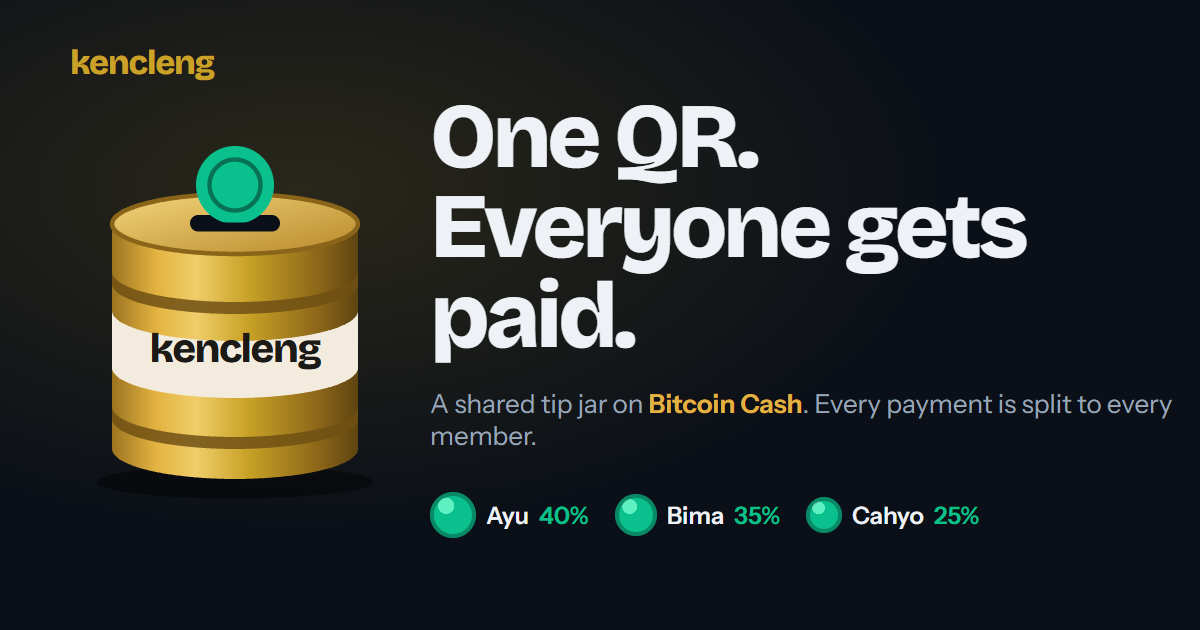
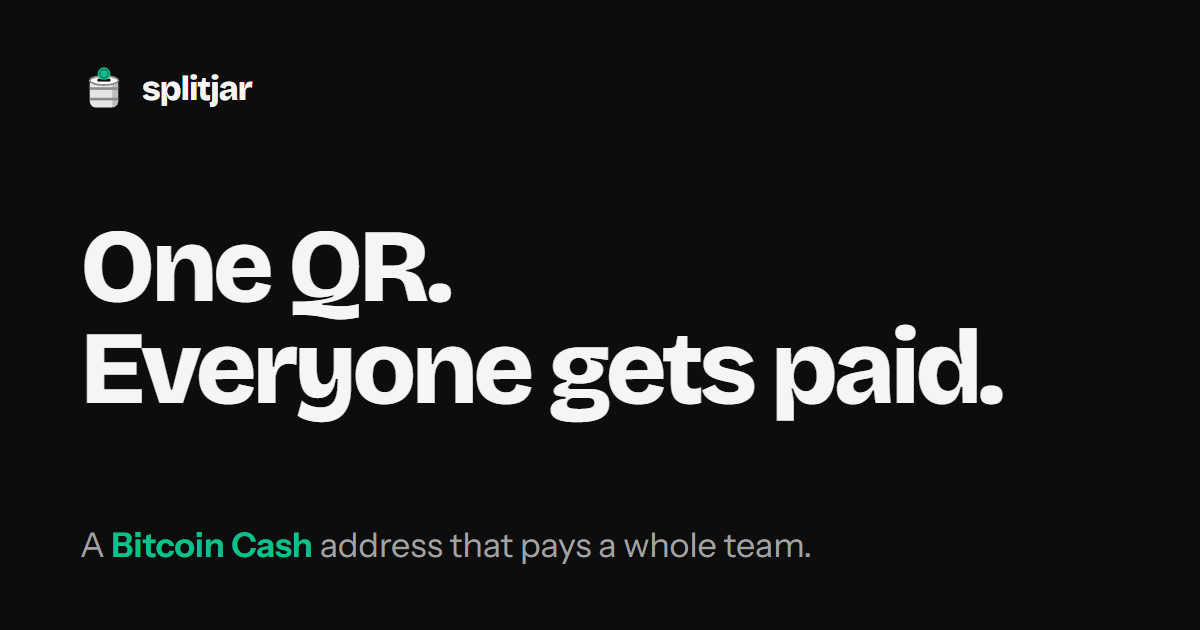
Judge README for Splitjar; neutral share image; wrap buttons at 360 px; fresh screenshots

diff --git a/scripts/og.html b/scripts/og.html
@@ -1,5 +1,5 @@
 <!doctype html>
-<!-- Source of public/og.png (1200x630). Rendered with scripts/og.py through the shared Chrome. -->
+<!-- Source of public/og.png (1200x630). Rendered with scripts/og.py through a shared Chrome. Neutral placeholder palette. -->
 <html>
 <head>
 <meta charset="utf-8" />
@@ -7,47 +7,17 @@
   @font-face { font-family: 'Bricolage'; src: url('../node_modules/@fontsource-variable/bricolage-grotesque/files/bricolage-grotesque-latin-wght-normal.woff2') format('woff2'); font-weight: 200 800; }
   @font-face { font-family: 'Instrument'; src: url('../node_modules/@fontsource-variable/instrument-sans/files/instrument-sans-latin-wght-normal.woff2') format('woff2'); font-weight: 400 700; }
   html, body { margin: 0; }
-  body { width: 1200px; height: 630px; background: radial-gradient(90% 90% at 25% 30%, rgba(201,162,39,.16), transparent 60%), #0b1018; color: #eef2f6; font-family: 'Instrument', sans-serif; display: grid; grid-template-columns: 430px 1fr; align-items: center; overflow: hidden; }
-  .tin { padding-left: 70px; }
-  .tin svg { width: 330px; height: auto; display: block; }
-  h1 { font-family: 'Bricolage', sans-serif; font-weight: 800; font-size: 92px; line-height: .98; letter-spacing: -0.045em; margin: 0; }
-  .sub { margin-top: 26px; font-size: 26px; color: #9aa6b8; }
-  .sub b { color: #e3b341; font-weight: 650; }
-  .coins { display: flex; gap: 26px; margin-top: 40px; align-items: center; }
-  .coin { display: flex; align-items: center; gap: 10px; font-size: 24px; font-weight: 600; }
-  .coin i { display: block; border-radius: 50%; background: radial-gradient(circle at 35% 30%, #5ff0c2 0 18%, #0ac18e 19% 100%); box-shadow: inset 0 0 0 4px rgba(6,35,26,.35); }
-  .coin span { color: #0ac18e; }
-  .word { position: absolute; left: 70px; top: 42px; font-family: 'Bricolage'; font-weight: 800; font-size: 34px; letter-spacing: -0.035em; color: #c9a227; }
+  body { width: 1200px; height: 630px; background: #0d0d0d; color: #f5f5f5; font-family: 'Instrument', sans-serif; box-sizing: border-box; padding: 64px 80px; display: grid; grid-template-rows: auto 1fr auto; overflow: hidden; }
+  .top { display: flex; align-items: center; gap: 14px; font-family: 'Bricolage'; font-weight: 800; font-size: 34px; letter-spacing: -0.035em; }
+  .top img { width: 48px; height: 48px; }
+  h1 { font-family: 'Bricolage', sans-serif; font-weight: 800; font-size: 104px; line-height: .98; letter-spacing: -0.045em; margin: 0; align-self: center; }
+  .sub { font-size: 34px; color: #a3a3a3; margin: 0; }
+  .sub b { color: #0ac18e; font-weight: 650; }
 </style>
 </head>
 <body>
-  <div class="word">splitjar</div>
-  <div class="tin">
-    <svg viewBox="0 0 220 250">
-      <defs>
-        <linearGradient id="m" x1="0" x2="1"><stop offset="0" stop-color="#9c7420"/><stop offset=".18" stop-color="#e3b341"/><stop offset=".34" stop-color="#f0cd6a"/><stop offset=".55" stop-color="#c9a227"/><stop offset=".85" stop-color="#8a6418"/><stop offset="1" stop-color="#5e4410"/></linearGradient>
-        <linearGradient id="l" x1="0" x2="1" y1="0" y2="1"><stop offset="0" stop-color="#f4d47a"/><stop offset="1" stop-color="#b8892b"/></linearGradient>
-        <clipPath id="c"><rect width="220" height="63"/></clipPath>
-      </defs>
-      <ellipse cx="110" cy="236" rx="92" ry="11" fill="#000" opacity=".45"/>
-      <path d="M28 64V214A82 20 0 0 0 192 214V64Z" fill="url(#m)"/>
-      <path d="M28 96A82 20 0 0 0 192 96V104A82 20 0 0 1 28 104Z" fill="#6f5013" opacity=".85"/>
-      <path d="M28 186A82 20 0 0 0 192 186V194A82 20 0 0 1 28 194Z" fill="#6f5013" opacity=".85"/>
-      <path d="M28 122A82 20 0 0 0 192 122V160A82 20 0 0 1 28 160Z" fill="#f3ebdd"/>
-      <text x="110" y="156" text-anchor="middle" style="font-family:Bricolage;font-weight:800;font-size:27px;letter-spacing:-1px" fill="#1b1a17">splitjar</text>
-      <ellipse cx="110" cy="64" rx="82" ry="20" fill="url(#l)" stroke="#8a6418" stroke-width="3"/>
-      <rect x="80" y="58" width="60" height="11" rx="5.5" fill="#0b1018"/>
-      <g clip-path="url(#c)"><circle cx="110" cy="38" r="26" fill="#0ac18e"/><circle cx="110" cy="38" r="17" fill="none" stroke="#06231a" stroke-width="3" opacity=".5"/></g>
-    </svg>
-  </div>
-  <div>
-    <h1>One QR.<br/>Everyone gets paid.</h1>
-    <p class="sub">A <b>Bitcoin Cash</b> address that pays a whole team.</p>
-    <div class="coins">
-      <div class="coin"><i style="width:46px;height:46px"></i>Ayu <span>40%</span></div>
-      <div class="coin"><i style="width:42px;height:42px"></i>Bima <span>35%</span></div>
-      <div class="coin"><i style="width:36px;height:36px"></i>Cahyo <span>25%</span></div>
-    </div>
-  </div>
+  <div class="top"><img src="../public/favicon.svg" alt="" />splitjar</div>
+  <h1>One QR.<br/>Everyone gets paid.</h1>
+  <p class="sub">A <b>Bitcoin Cash</b> address that pays a whole team.</p>
 </body>
 </html>

diff --git a/src/styles/base.css b/src/styles/base.css
@@ -213,3 +213,12 @@ select {
     scroll-behavior: auto !important;
   }
 }
+
+@media (max-width: 480px) {
+  .btn {
+    white-space: normal;
+    text-align: center;
+    line-height: 1.25;
+    padding-block: var(--s-2);
+  }
+}

diff --git a/src/styles/app.css b/src/styles/app.css
@@ -708,6 +708,7 @@
 }
 
 .refusal-msg {
+  overflow-wrap: anywhere;
   font-size: 0.8rem;
   white-space: pre-wrap;
   max-height: 200px;

diff --git a/README.md b/README.md
@@ -1,116 +1,141 @@
 <div align="center">
 
-<img src="public/icon-192.png" width="96" alt="Splitjar: a brass tip tin with a green coin going into the slot">
+<img src="public/icon-192.png" width="88" alt="Splitjar logo: a jar with a green coin going into the slot">
 
 # Splitjar
 
-**One QR. Everyone gets paid.**
+**A Bitcoin Cash address that pays a whole team.**
 
-![tests](https://img.shields.io/badge/tests-26%20passing-2ea44f) ![license](https://img.shields.io/badge/license-MIT-blue) ![network](https://img.shields.io/badge/Bitcoin%20Cash-mainnet%20%2B%20chipnet-0AC18E) ![owner keys](https://img.shields.io/badge/owner%20keys-0-2ea44f)
+One QR. Everyone gets paid.
 
-**[Open the app](https://splitjar.vercel.app)** · **[Play-money jar, no wallet needed](https://splitjar.vercel.app/try)** · **Slides (Widget Factory): _TODO link_** · **Video: _TODO link_**
+[![ci](https://github.com/Stylenexy/splitjar/actions/workflows/ci.yml/badge.svg)](https://github.com/Stylenexy/splitjar/actions/workflows/ci.yml) ![tests](https://img.shields.io/badge/tests-35%20passing-2ea44f) ![license](https://img.shields.io/badge/license-MIT-blue) ![owner keys](https://img.shields.io/badge/owner%20keys-0-2ea44f) [![Pay this team on BCH](public/badge.svg)](#embed-and-badge)
+
+**Live app: _TODO final URL_** · **[Play-money jar, no wallet needed](#try-it-in-60-seconds)** · **Slides (Widget Factory): _TODO_** · **Video: _TODO_**
 
 </div>
 
-Splitjar is a shared tip jar on Bitcoin Cash. A street band, a warung crew or a group of co-hosts gets one QR code. Every payment to it is split to each member's wallet within seconds, in shares written into a CashScript covenant. Nobody holds the money, so nobody has to be trusted with it.
+Splitjar turns one Bitcoin Cash QR into a whole team: pay once, and a CashScript covenant pays every member their share within seconds. No treasurer, and no way to change the cut. A member can itself be another team's Splitjar, so one payment can flow down a revenue waterfall (organiser, band, crew) in consecutive transactions.
 
-*Splitjar* is the Indonesian tip tin with a slot in the lid that goes around after a street performance. Afterwards one person always ends up holding it and paying the others back. Splitjar moves that job into the contract.
+Built for **BCH BLAZE 2026, Mainnet Track**, November 2026. The contract has not been audited: use small amounts.
 
-Built for **BCH BLAZE 2026, Mainnet Track**, November 2026. Contract not audited: use small amounts.
-
-<img src="docs/shots/home-1440.png" width="100%" alt="Splitjar home page: the headline One QR. Everyone gets paid, a brass tip tin, three member coins after a split and the printed receipt of the split transaction">
+<img src="docs/shots/home-1440.png" width="100%" alt="Splitjar home page: headline One QR. Everyone gets paid, and a live split tree where one payment reaches seven wallets over two levels">
 
 ## Try it in 60 seconds
 
-1. **No wallet, no money:** open **[/try](https://splitjar.vercel.app/try)** and press *Drop 0.001 BCH into the tin*. The page runs the real contract against an in-memory network: the split transaction is built by CashScript and checked by the Bitcoin Cash VM (libauth) in your tab. Three member cards light up with their amounts.
-2. **Cheat it:** on the same page press *Pay 0.001 BCH and let the thief try first*. Before the honest split, the page broadcasts a transaction that sends the whole payment to the first member. The VM refuses it; the page shows the raw error and the contract line that caught it (`Splitjar.cash` line 32, *one output per member, no extra outputs*). Then the honest split goes through.
-3. **Real mainnet:** open the demo jar (_TODO: mainnet demo jar link, set once Dex's member addresses are in_) or make your own at **[/new](https://splitjar.vercel.app/new)** with two to four addresses you control. Scan the QR with any Bitcoin Cash wallet, or press **Pay with WizardConnect** and approve in your wallet. Keep the page open: within a couple of seconds the split goes out and each card links to the transaction on the explorer.
-
-<img src="docs/shots/cheat-1440.png" width="100%" alt="The cheat scene: a transaction paying everything to Ayu, and a paper stamp REFUSED with the VM error and the contract rule that caught it">
+1. **No wallet, no money.** Open the app's `/try` page and press *Pay 0.001 BCH into the jar*. The page runs the real contract against an in-memory network: each split transaction is built by CashScript and accepted by the Bitcoin Cash VM (libauth) in your tab. The sample band jar pays three players and the road crew's own jar, which splits again: **one payment, two levels, seven wallets, two transactions.**
+2. **Cheat it.** Press *Pay 0.001 BCH and let the thief try first*. Before the honest split, the page broadcasts a transaction that sends the whole payment to the first member. The VM refuses it. The page shows the raw refusal and the contract line that caught it (`Splitjar.cash` line 32, *one output per member, no extra outputs*). Then the honest split goes through. On mainnet the same button sends the cheat to a real node.
+3. **Real mainnet.** Make a jar at `/new` with **Test with two of my own addresses** (the money comes back to you), or pay into the demo jar (_TODO: mainnet demo jar link once its addresses are set_). Scan the QR with any Bitcoin Cash wallet, or press **Pay with WizardConnect** and approve in your wallet. Within a couple of seconds the split goes out; each line of the tree links to its transaction on the explorer. Close the tab and pay from your phone: the keeper still sends the split.
 
 ## For judges: how each Mainnet Track requirement is met
 
 | Requirement | How Splitjar meets it | Where to check |
 |---|---|---|
-| Anyone can make a useful BCH mainnet transaction with the app | Pay into a jar from any wallet (BIP21 QR) or through WizardConnect; the app then broadcasts the split, a second mainnet transaction with one output per member | [`PayPanel.tsx`](src/components/PayPanel.tsx), [`engine.ts`](src/lib/engine.ts). Example mainnet jar and transactions: **TODO** (added after the first funded run) |
-| WizardConnect integration | `@wizardconnect/react` 0.2.6 pairs a wallet over the relay; the app derives the wallet's addresses from the shared xpubs, finds its coins, builds the payment with CashScript and asks the wallet to sign it (`inputPaths`) | [`wallet.ts`](src/lib/wallet.ts), [`PayPanel.tsx`](src/components/PayPanel.tsx) |
-| Live demo a judge can open with one link | Static site, no account, no backend | https://splitjar.vercel.app |
-| Banner on top of the home page: slides, repo, EMBER2026 address | Paper strip above the navigation, filled from one config file | [`Chrome.tsx`](src/components/Chrome.tsx) `Banner`, values in [`site.ts`](src/site.ts) (**slides link and EMBER2026 address: TODO**) |
+| Anyone can make a useful BCH mainnet transaction with the app | Pay into a jar from any wallet (BIP21 QR) or through WizardConnect; the app then broadcasts the split, a second mainnet transaction with one output per member, and one more per nested jar | [`PayPanel.tsx`](src/components/PayPanel.tsx), [`engine.ts`](src/lib/engine.ts). Mainnet transaction ids: **TODO** (added after the first funded run) |
+| WizardConnect integration | `@wizardconnect/react` 0.2.6 pairs a wallet over the relay; the app derives the wallet's addresses from the shared xpubs, finds its coins, builds the payment with CashScript and asks the wallet to sign it with `inputPaths` | [`wallet.ts`](src/lib/wallet.ts), [`PayPanel.tsx`](src/components/PayPanel.tsx). Wallets tested: **TODO** (Selene, Paytaca, Cashonize) |
+| Live demo a judge can open with one link | Static site, no account, no backend | **TODO final URL** |
+| Banner on top of the home page: slides, repo, EMBER2026 address | Strip above the navigation, filled from one config file | [`Chrome.tsx`](src/components/Chrome.tsx) `Banner`, values in [`site.ts`](src/site.ts) (**slides link and EMBER2026 address: TODO**) |
 | Original work | Written from scratch during the hackathon; first commit 17 November 2026 (`git log --reverse`). Prior concept work is listed under [Credits](#credits--prior-work) | git history |
 
 ## How it maps to the judging criteria
 
 | Criterion | What Splitjar does |
 |---|---|
-| **Innovation (is it cool?)** | A tip jar that cannot be cheated, for groups that earn together in cash today. One QR on a guitar case is the whole interface for the payer. The page lets you attack it and shows the network refusing. |
-| **Design (is it slick?)** | The payer does what they already know: scan, pay. The group sets up in one form with no account. The tin on screen reacts to real events: a coin drops in when a payment lands, one coin per member flies out when the split is accepted. Mobile first, tested at 360 px. |
-| **Technical (does it work?)** | Covenant with native introspection: outputs, amounts, output count and token fields are all fixed by the contract; no owner key, no signature. 26 tests on a mock network that runs the real VM. The split is deterministic, so any number of devices can race to send it and they all send the same transaction. |
-| **Business (will it make money?)** | See [Business model](#business-model-and-roadmap): an optional organiser share for events and paid printed QR kits, both without custody. |
+| **Innovation** | An address that is a whole team. Nested jars make a revenue waterfall out of plain payments: a festival pays a band, the band pays its crew, all from one scan. The page invites you to attack it and shows the network refusing. |
+| **Design and usability** | The payer only scans and pays. The team sets up in one form, no account; nesting is pasting another jar's link as a member. The split tree lights up level by level with the amount and a link per transaction. Tested at 360 px. (The visual design is a neutral placeholder while the final direction is chosen.) |
+| **Technical strength** | Covenant with native introspection: output count, recipients, exact amounts and token fields are all fixed by the contract; no owner key, no signature. Nested jars need no contract change: a jar's address is a P2SH32 locking bytecode like any other recipient. Splits are deterministic, so any device (or the keeper) can send them and all send the same transaction. 35 tests, all transactions checked by the BCH VM. |
+| **Business potential** | See [Business model](#business-model-and-roadmap): an optional organiser share in event jars, printed QR kits, and a one-line embed for podcasts, restaurants and team fundraisers. |
 
 ## How it works
 
 ```mermaid
 flowchart LR
-  P[Payer's wallet] -- 1. pays the QR --> J[(Jar address<br/>Splitjar covenant)]
-  J -- 2. a page with the jar open sees the coin --> D{distribute}
-  D -- 3. one transaction --> A[Ayu 40%]
-  D --> B[Bima 35%]
-  D --> C[Cahyo 25%]
+  P[Payer's wallet] -- 1. pays the QR --> J[(Band jar<br/>Splitjar covenant)]
+  J -- 2. split --> A[Ayu 30%]
+  J --> B[Bima 25%]
+  J --> C[Cahyo 20%]
+  J --> R[(Road crew jar<br/>25%)]
+  R -- 3. split again --> D[Dewi 40%]
+  R --> E[Eko 25%]
+  R --> F[Fajar 20%]
+  R --> G[Gita 15%]
 ```
 
-1. **The group writes down who gets what.** Names, payout addresses and shares (2 to 4 members, shares add up to 100%). That list is encoded in the page link after the `#`, so it never reaches a server. The browser compiles nothing; it instantiates the precompiled contract with these values and gets a P2SH32 address.
-2. **Someone pays the QR.** The QR is a BIP21 `bitcoincash:` URI with the amount. WizardConnect is offered for wallets that support it.
-3. **The jar splits it.** The page polls the jar address every 1.5 s through an Electrum server. When a coin arrives it builds `distribute()`: one input (the payment), one output per member, amounts computed exactly like the contract computes them. The 1,000-sat fee comes out of the payment, so the page needs no wallet to send it.
+1. **The team writes down who gets what.** Names, payout addresses and shares (2 to 4 members, adding up to 100%). A member can be another jar: paste that jar's link instead of an address. The list is encoded in the page link after the `#`, so it never reaches a server. The browser instantiates the precompiled contract with these values and gets a P2SH32 address.
+2. **Someone pays the QR**, a BIP21 `bitcoincash:` URI, from any wallet, or through WizardConnect.
+3. **The split goes out.** A page with the jar open polls the jar addresses every 1.5 s through an Electrum server. When a coin arrives it builds `distribute()`: one input (the payment), one output per member, amounts computed exactly as the contract computes them. If a member is a jar, the page immediately splits that jar too, spending the output it just created. Each split's 1,000-sat fee comes out of the money it splits, so nobody needs a wallet to send it.
+4. **No page open?** `splitjar-keeper` does step 3 from a terminal or a schedule ([Keeper](#keeper-members-get-paid-with-the-tab-closed)).
 
-Two transactions, payment then split. The contract does not split on arrival (Bitcoin Cash has no such hook); it makes the split the only way the coin can ever move.
+The contract does not split on arrival (Bitcoin Cash has no such hook); it makes the split the only way the coin can ever move.
 
 ## The contract
 
-[`contracts/Splitjar.cash`](contracts/Splitjar.cash), 89 lines, CashScript 0.14.0, compiled to 158 opcodes.
+[`contracts/Splitjar.cash`](contracts/Splitjar.cash), 89 lines, CashScript 0.14.0, 158 opcodes.
 
-- Constructor (line 9): four locking bytecodes, shares of the first three members in basis points, member count, fee. The last member gets the remainder, so the shares always cover the whole pot.
-- `distribute()` (line 27): exactly one input and `members` outputs (lines 31-32); `pot = input - fee` (line 34); each output must pay the right member exactly `floor(pot * bps / 10000)` (lines 36-73), with at least 1,000 sats and no tokens. Integer division floors, and the last member takes what is left, so no satoshi is lost to rounding.
+- Constructor (line 9): four locking bytecodes (P2PKH wallets or P2SH32 jars), shares of the first three members in basis points, member count, fee. The last member gets the remainder, so shares always cover the whole pot.
+- `distribute()` (line 27): exactly one input and `members` outputs (lines 31-32); `pot = input - fee` (line 34); each output must pay the right locking bytecode exactly `floor(pot * bps / 10000)`, at least 1,000 sats, no tokens (lines 36-73). Integer division floors and the last member takes what is left, so rounding never loses a satoshi.
 - `merge()` (line 79): joins two coins that are each too small to split. The only output is the jar itself, with the sum minus the fee.
 
-Measured split sizes (mock network, `TransactionBuilder.build`): 441 bytes for 2 members, 502 for 3, 561 for 4, so the fixed 1,000-sat fee pays 1.8 to 2.3 sat/byte, above the 1 sat/byte relay minimum.
+Measured split sizes: 441 bytes for 2 members, 502 for 3, 561 for 4, so the fixed 1,000-sat fee pays 1.8 to 2.3 sat/byte, above the 1 sat/byte relay minimum. A jar refuses a share that the next level could not split: the app computes the minimum payment per level (fee plus 1,000 sats per wallet, recursively) and shows it on each jar page.
 
-**Code map.** Contract arguments from a jar config: [`jar.ts`](src/lib/jar.ts) `contractArgs` (line 125). The split arithmetic shared by the app, the landing page and the tests: `splitPot` (line 41). Transactions: [`chain.ts`](src/lib/chain.ts) `buildDistribute` (line 85), `buildMerge` (line 94), `buildCheat` (line 106), `explainCheat` (line 117). The watcher: [`engine.ts`](src/lib/engine.ts) `JarEngine` (line 61). WizardConnect payment: [`wallet.ts`](src/lib/wallet.ts) `payWithWallet` (line 62).
+**Code map.** Jar config, URL encoding, nesting rules and the split arithmetic: [`jar.ts`](src/lib/jar.ts) (`splitPot` line 56, `minPaymentFor` line 92, `validateJar` line 169). Contract, nesting and transactions: [`chain.ts`](src/lib/chain.ts) (`resolveJar` line 62, `jarTree` line 83, `buildDistribute` line 123, `buildCheat` line 145, `explainCheat` line 156). The watcher and the cascade: [`engine.ts`](src/lib/engine.ts) (`JarEngine` line 77, `once` line 155, `split` line 251). WizardConnect payment: [`wallet.ts`](src/lib/wallet.ts) (`payWithWallet` line 62). Keeper: [`keeper/cli.ts`](keeper/cli.ts).
 
 ## Tests
 
 ```bash
 npm ci
-npm test        # compiles the contract, then 26 tests
+npm test        # compiles the contract, then 35 tests
 npm run build   # type-check and production build
 ```
 
-[`test/splitjar.test.ts`](test/splitjar.test.ts) runs every transaction through CashScript's `MockNetworkProvider`, which evaluates it with the Bitcoin Cash VM against the real locking bytecode, like a node would:
+Every transaction in the tests goes through CashScript's `MockNetworkProvider`, which evaluates it with the Bitcoin Cash VM against the real locking bytecode, like a node.
 
-- pays 2, 3 and 4 members their exact shares, the jar ends empty, the fee is exactly 1,000 sats and at least 1 sat/byte;
-- rounding: 123,457 sats at 33.33/33.33/33.34% gives 40,814 + 40,814 + 40,829, nothing lost;
-- the same split built on two devices has the same bytes and txid; different shares give a different address;
-- refuses: the whole pot to one member, an output redirected to someone else with the right amount, swapped amounts, a bigger fee, an extra output, two payments in one split, a payout under 1,000 sats, a merge that leaves the jar, a merge that skims;
-- small payments merge and then split.
+- [`test/splitjar.test.ts`](test/splitjar.test.ts): pays 2, 3 and 4 members their exact shares, fee exactly 1,000 sats and at least 1 sat/byte; rounding (123,457 sats at 33.33/33.33/33.34% gives 40,814 + 40,814 + 40,829); the same split on two devices has the same txid; refuses the whole pot to one member, a redirected output, swapped amounts, a bigger fee, an extra output, two payments at once, a payout under 1,000 sats, a merge that leaves the jar or skims. **Split trees:** the band jar pays the crew jar at its P2SH32 locking bytecode (`aa20…87`), the crew jar splits again, seven wallets receive `payment − 2 × fee`; refuses paying the crew's share to a wallet instead; a three-level waterfall (organiser, band, crew) delivers `payment − 3 × fee`.
+- [`test/engine.test.ts`](test/engine.test.ts): the watcher splits a payment and then the nested jar on its own (one payment, two levels, seven wallets); the thief goes first, is refused, and the refusal names the contract rule.
+- [`test/jar.test.ts`](test/jar.test.ts): jar links (round trip, nested, broken links), validation (wrong network, address typos, duplicates, shares, three levels allowed and a fourth refused), minimum payments for nested jars.
 
-[`test/jar.test.ts`](test/jar.test.ts) covers the jar link (round trip, broken links), validation (wrong network, address typos, duplicate addresses, shares not adding up) and the arithmetic over 72 amounts.
+## Keeper: members get paid with the tab closed
+
+```bash
+npm run keeper -- "https://<site>/jar#<code>"            # one round, then exit
+npm run keeper -- --file keeper/jars.txt                  # every jar listed in the file
+npm run keeper -- --watch --every 30 "https://<site>/jar#<code>"
+```
+
+The keeper looks at every jar in the tree once, sends the split for anything waiting (and the nested splits after it), and prints the transactions. It holds no keys: the covenant only allows the honest split and pays its own fee. [`.github/workflows/keeper.yml`](.github/workflows/keeper.yml) runs it every 5 minutes for the jars in [`keeper/jars.txt`](keeper/jars.txt) once the repository variable `KEEPER_ENABLED` is `true`. The package declares a `splitjar-keeper` bin; it is not published to npm yet, so run it from a clone.
+
+Honest timing: with the jar page open the split follows the payment within seconds; with every page closed it waits for the keeper's next round (up to about 5 minutes on the schedule, GitHub cron is best effort).
+
+## Embed and badge
+
+One line puts a "Pay this team on BCH" button on any page (a podcast site, a menu, a campaign page):
+
+```html
+<script src="https://<site>/embed.js" data-jar="https://<site>/jar#<code>" data-label="Tip the show"></script>
+```
+
+For a README: `[![Pay this team on BCH](https://<site>/badge.svg)](https://<site>/jar#<code>)`.
+
+The SDK entry point [`src/sdk.ts`](src/sdk.ts) exports what the site and the keeper use: decode a jar link, get its address, build or send its splits.
 
 ## Security and honest limits
 
 - **Not audited.** Built in a hackathon week. Use small amounts.
-- **Someone has to press split.** The contract only allows the split; a page with the jar open sends it automatically. If nobody has the jar open, the coin waits in the jar, safe, until someone does. Anyone can send it, including from a copy of this repository; the result is the same transaction.
-- **Merge griefing is bounded.** Anyone may merge any two coins in the jar; each merge costs the group 1,000 sats and never moves money out. With *n* coins there can be at most *n − 1* merges.
-- **Tokens are not supported.** The app shows only the plain (non-token) address. CashTokens sent to the jar anyway are burned when the coin is split.
-- **The jar link is public information.** It contains the members' payout addresses and shares, and so does the contract on chain after the first split.
-- **WizardConnect coin discovery** checks the first 12 receive and 12 change addresses of the connected wallet. Coins further out are not seen.
-- **Fixed fee.** 1,000 sats per split. If relay fee policy ever rose above about 1.7 sat/byte, a new contract version with a higher fee would be needed for 4-member jars.
-- **Not yet done (TODO before submission):** a mainnet run with real coins (transaction ids go here), a pairing test with a real WizardConnect wallet.
+- **Someone has to send the split.** The contract only allows it. A page with the jar open does it within seconds, the keeper on its schedule, anyone else at any time; they all send the same transaction. Until then the coin waits in the jar, safe.
+- **Nested jars cost one fee per level** (1,000 sats each) and a jar refuses a share too small for its nested jar to split again. Three levels at most in the app; the contract itself does not limit depth.
+- **Merge griefing is bounded.** Anyone may merge two coins in a jar; each merge costs the team 1,000 sats and never moves money out. With *n* coins there can be at most *n − 1* merges.
+- **Tokens are not supported.** The app shows only the plain address. CashTokens sent to a jar anyway are burned when the coin is split.
+- **The jar link is public information**: it lists the members' payout addresses and shares, as does the chain after the first split.
+- **WizardConnect coin discovery** checks the first 12 receive and 12 change addresses of the connected wallet.
+- **Fixed fee.** 1,000 sats per split. If relay fee policy rose above about 1.7 sat/byte, a new contract version with a higher fee would be needed for 4-member jars.
+- **Not yet done (before submission):** mainnet transaction ids, WizardConnect pairing tested with Selene, Paytaca and Cashonize, final URL, slides, EMBER2026 address.
 
 ## Business model and roadmap
 
-- **Free core.** Making a jar and paying into it stays free; the contract has no owner key and takes no cut.
-- **Event jars (next):** a fifth, optional output for the organiser of a festival or busking event (for example 0.5%), written into the contract when the jar is made, so performers see it before they agree.
-- **Printed kits:** a laminated QR card and a sticker for the tin or guitar case, sold to bands and warung, with the jar link on the back.
-- **Roadmap:** a receipt NFT per split (CashTokens), shares in fiat terms at the moment of payment, a watcher that runs without an open page, Indonesian interface.
+- **Free core.** Making a jar and paying into it stays free. The contract has no owner key and takes no cut.
+- **Event jars:** an organiser share written into a festival jar, so every act sees it before agreeing; each act's share goes to the act's own jar.
+- **Embed for teams that already take BCH:** podcasts with several hosts, restaurant tip pools, team-run FundMe campaigns. One line of HTML, no backend.
+- **Printed kits:** a QR card and sticker for a guitar case or a till.
+- **Roadmap:** keeper as a hosted service with notifications, shares shown in fiat at payment time, Indonesian interface, a tip to Splitjar itself split with a BCH open-source fund.
 
 ## Run it locally
 
@@ -121,13 +146,14 @@ npm ci
 npm run dev       # http://localhost:5173
 ```
 
-`npm run compile` rebuilds `src/contract/splitjar.artifact.ts` from `contracts/Splitjar.cash` (also run by `dev`, `build` and `test`). The share image is rendered from `scripts/og.html` (`scripts/og.py`), the icons from `public/favicon.svg` (`scripts/icons.mjs`).
+`npm run compile` rebuilds `src/contract/splitjar.artifact.ts` from `contracts/Splitjar.cash` (also run by `dev`, `build` and `test`). Icons come from `public/favicon.svg` (`scripts/icons.mjs`); the share image from `scripts/og.html`.
 
 ## Credits & prior work
 
-- Concept: the split-payment idea was first explored by the same author in **BonBagi** (ZECATHON 2026, Zcash shielded payments, October 2026), which split one payment across members with a signed agreement and a multi-recipient Zcash request. Splitjar shares no code, text or assets with it: the contract, the app and the design were written from scratch for Bitcoin Cash during BCH BLAZE 2026.
-- The idea of a covenant that divides coins between fixed recipients has been discussed in the Bitcoin Cash community before (for example "Divide" contracts on the BCH research forum). Splitjar does not claim to be the first; it packages the idea for groups that are paid with a QR.
-- Built with [CashScript](https://cashscript.org) 0.14.0 (MIT), [libauth](https://libauth.org) (MIT), [WizardConnect](https://gitlab.com/riftenlabs/lib/wizardconnect) by Riften Labs (LGPL-3.0-or-later, used unmodified as npm packages), [qrcode](https://github.com/soldair/node-qrcode) (MIT), React and Vite. Fonts: Bricolage Grotesque, Instrument Sans and IBM Plex Mono (SIL Open Font License) via Fontsource.
-- Logo, tin illustration and share image: drawn for this project.
+- **Where the idea comes from.** In Indonesia, street bands pass a *kencleng* (a tip can with a slot in the lid) around after a set, and one person ends up holding it and paying the others. Splitjar's first working name was Kencleng.
+- **Prior concept by the same author:** BonBagi (ZECATHON 2026, Zcash shielded payments, October 2026) split one payment across members with a signed agreement and a multi-recipient Zcash request. Splitjar shares no code, text or assets with it: the contract, the app and the design were written from scratch for Bitcoin Cash during BCH BLAZE 2026.
+- Covenants that divide coins between fixed recipients have been discussed in the Bitcoin Cash community before. Splitjar does not claim to be the first; it packages the idea for teams paid by QR, and adds nesting.
+- Built with [CashScript](https://cashscript.org) 0.14.0 (MIT), [libauth](https://libauth.org) (MIT), [WizardConnect](https://gitlab.com/riftenlabs/lib/wizardconnect) by Riften Labs (LGPL-3.0-or-later, used unmodified as npm packages), [qrcode](https://github.com/soldair/node-qrcode) (MIT), React and Vite. Fonts: Bricolage Grotesque, Instrument Sans, IBM Plex Mono (SIL Open Font License) via Fontsource.
+- Logo and share image: drawn for this project.
 
 License: [MIT](LICENSE).
